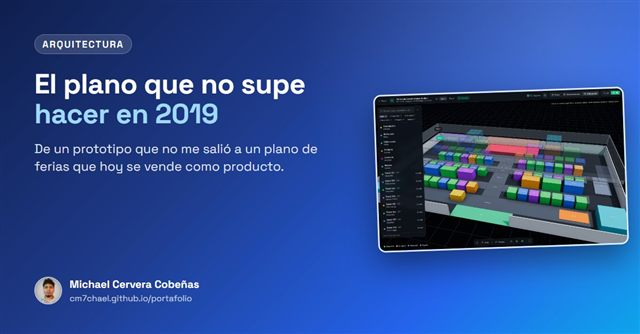
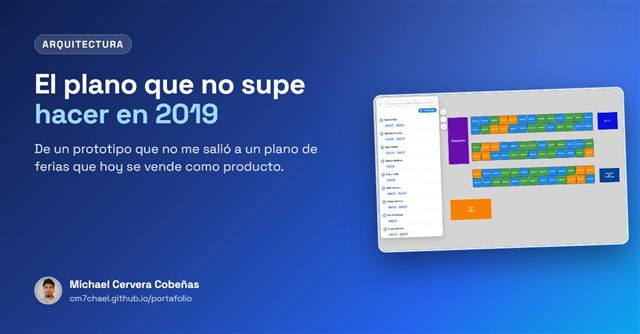
Artículo del plano: capturas del sistema actual

Changed region(s): [[0.5625, 0.2395, 1.0, 0.7485]]

diff --git a/blog/index.html b/blog/index.html
@@ -50,7 +50,7 @@
     </header>
     <!-- La lista y los botones de categoría los deja escritos generar-blog.js; blog.js los activa. -->
     <div class="container" id="blog-lista" data-slugs="plano-de-ferias-que-no-supe-hacer-2019,decisiones-documentadas-adr-equipo,integrar-sap-business-one-gateway-tablas-espejo,design-system-angular-17-aplicaciones,cicd-sin-llaves-workload-identity-federation-cloud-run,microfrontends-angular-native-federation-lecciones-produccion">
-      <section class="blog-grupo" id="cat-arquitectura"><div class="blog-grupo__cabecera"><h2>Arquitectura</h2><span>4 artículos</span></div><div class="row"><div class="col-12 col-md-6 col-lg-4 mb-4"><a class="blog-card" href="https://cm7chael.github.io/portafolio/blog/plano-de-ferias-que-no-supe-hacer-2019.html"><img class="blog-card__img" src="https://cm7chael.github.io/portafolio/assets/image/blog/miniaturas/plano-ferias.jpg" alt="" width="1200" height="627" fetchpriority="high"><div class="blog-card__cuerpo"><p class="blog-card__meta">Arquitectura · 20 de octubre de 2026 · 4 min</p><h3>El plano de ferias que no supe hacer en 2019</h3><p class="blog-card__resumen">En 2019 intenté un plano web para ferias y no me salió. En 2025 lo retomamos y hoy se vende como producto. Qué puso la IA y qué tuvimos que decidir nosotros.</p><div class="stack"><span class="stack__item">Canvas</span><span class="stack__item">Konva</span><span class="stack__item">IA</span></div></div></a></div><div class="col-12 col-md-6 col-lg-4 mb-4"><a class="blog-card" href="https://cm7chael.github.io/portafolio/blog/integrar-sap-business-one-gateway-tablas-espejo.html"><img class="blog-card__img" src="https://cm7chael.github.io/portafolio/assets/image/blog/miniaturas/sap-una-sola-puerta.jpg" alt="" width="1200" height="627" loading="lazy"><div class="blog-card__cuerpo"><p class="blog-card__meta">Arquitectura · 10 de octubre de 2026 · 6 min</p><h3>SAP Business One con una sola puerta: cómo lo integré en 17 aplicaciones sin que ninguna le hable directo</h3><p class="blog-card__resumen">Cómo 17 aplicaciones usan SAP Business One sin conectarse a él: un gateway único, tablas espejo para los maestros y lo aprendido con el Service Layer.</p><div class="stack"><span class="stack__item">SAP Business One</span><span class="stack__item">Service Layer</span><span class="stack__item">HANA</span></div></div></a></div><div class="col-12 col-md-6 col-lg-4 mb-4"><a class="blog-card" href="https://cm7chael.github.io/portafolio/blog/design-system-angular-17-aplicaciones.html"><img class="blog-card__img" src="https://cm7chael.github.io/portafolio/assets/image/blog/miniaturas/design-system.jpg" alt="" width="1200" height="627" loading="lazy"><div class="blog-card__cuerpo"><p class="blog-card__meta">Arquitectura · 10 de octubre de 2026 · 6 min</p><h3>Un Design System para 17 aplicaciones: cómo lo armé en Angular y lo que me tocó corregir</h3><p class="blog-card__resumen">Cómo armé un Design System en Angular con Nx que usan 17 aplicaciones: librerías, tokens, Material encapsulado y lo que me tocó corregir.</p><div class="stack"><span class="stack__item">Design System</span><span class="stack__item">Angular</span><span class="stack__item">Nx</span></div></div></a></div><div class="col-12 col-md-6 col-lg-4 mb-4"><a class="blog-card" href="https://cm7chael.github.io/portafolio/blog/microfrontends-angular-native-federation-lecciones-produccion.html"><img class="blog-card__img" src="https://cm7chael.github.io/portafolio/assets/image/blog/miniaturas/microfrontends.jpg" alt="" width="1200" height="627" loading="lazy"><div class="blog-card__cuerpo"><p class="blog-card__meta">Arquitectura · 10 de octubre de 2026 · 6 min</p><h3>Microfrontends con Angular y Native Federation: lo que aprendí llevando más de 15 módulos a producción</h3><p class="blog-card__resumen">Lecciones reales de llevar más de 15 microfrontends a producción con Angular y Native Federation: rutas, CORS, caché, ambientes y Design System.</p><div class="stack"><span class="stack__item">microfrontends</span><span class="stack__item">Angular</span><span class="stack__item">Native Federation</span></div></div></a></div></div></section><section class="blog-grupo" id="cat-equipos-y-liderazgo"><div class="blog-grupo__cabecera"><h2>Equipos y liderazgo</h2><span>1 artículo</span></div><div class="row"><div class="col-12 col-md-6 col-lg-4 mb-4"><a class="blog-card" href="https://cm7chael.github.io/portafolio/blog/decisiones-documentadas-adr-equipo.html"><img class="blog-card__img" src="https://cm7chael.github.io/portafolio/assets/image/blog/miniaturas/decisiones-documentadas.jpg" alt="" width="1200" height="627" loading="lazy"><div class="blog-card__cuerpo"><p class="blog-card__meta">Equipos y liderazgo · 16 de octubre de 2026 · 5 min</p><h3>Decisiones documentadas: cómo uso los ADR para que el equipo avance con su propio criterio</h3><p class="blog-card__resumen">Qué es un ADR, la plantilla que uso, cuándo escribir uno y qué cambió en el equipo después de documentar 14 decisiones técnicas en dos meses.</p><div class="stack"><span class="stack__item">ADR</span><span class="stack__item">Arquitectura</span><span class="stack__item">Documentación</span></div></div></a></div></div></section><section class="blog-grupo" id="cat-cloud-y-devops"><div class="blog-grupo__cabecera"><h2>Cloud y DevOps</h2><span>1 artículo</span></div><div class="row"><div class="col-12 col-md-6 col-lg-4 mb-4"><a class="blog-card" href="https://cm7chael.github.io/portafolio/blog/cicd-sin-llaves-workload-identity-federation-cloud-run.html"><img class="blog-card__img" src="https://cm7chael.github.io/portafolio/assets/image/blog/miniaturas/cicd-sin-llaves.jpg" alt="" width="1200" height="627" loading="lazy"><div class="blog-card__cuerpo"><p class="blog-card__meta">Cloud y DevOps · 10 de octubre de 2026 · 6 min</p><h3>CI/CD sin llaves: cómo despliego más de 20 repositorios a Cloud Run con Workload Identity Federation</h3><p class="blog-card__resumen">Cómo desplegar a Cloud Run desde GitHub Actions sin llaves de servicio, con Workload Identity Federation: paso a paso y lo aprendido con más de 20 repos.</p><div class="stack"><span class="stack__item">CI/CD</span><span class="stack__item">GitHub Actions</span><span class="stack__item">Google Cloud</span></div></div></a></div></div></section>
+      <section class="blog-grupo" id="cat-arquitectura"><div class="blog-grupo__cabecera"><h2>Arquitectura</h2><span>4 artículos</span></div><div class="row"><div class="col-12 col-md-6 col-lg-4 mb-4"><a class="blog-card" href="https://cm7chael.github.io/portafolio/blog/plano-de-ferias-que-no-supe-hacer-2019.html"><img class="blog-card__img" src="https://cm7chael.github.io/portafolio/assets/image/blog/miniaturas/plano-ferias.jpg" alt="" width="1200" height="627" fetchpriority="high"><div class="blog-card__cuerpo"><p class="blog-card__meta">Arquitectura · 20 de octubre de 2026 · 5 min</p><h3>El plano de ferias que no supe hacer en 2019</h3><p class="blog-card__resumen">En 2019 intenté un plano web para ferias y no me salió. En 2025 lo retomamos y hoy se vende como producto. Qué puso la IA y qué tuvimos que decidir nosotros.</p><div class="stack"><span class="stack__item">Canvas</span><span class="stack__item">Konva</span><span class="stack__item">IA</span></div></div></a></div><div class="col-12 col-md-6 col-lg-4 mb-4"><a class="blog-card" href="https://cm7chael.github.io/portafolio/blog/integrar-sap-business-one-gateway-tablas-espejo.html"><img class="blog-card__img" src="https://cm7chael.github.io/portafolio/assets/image/blog/miniaturas/sap-una-sola-puerta.jpg" alt="" width="1200" height="627" loading="lazy"><div class="blog-card__cuerpo"><p class="blog-card__meta">Arquitectura · 10 de octubre de 2026 · 6 min</p><h3>SAP Business One con una sola puerta: cómo lo integré en 17 aplicaciones sin que ninguna le hable directo</h3><p class="blog-card__resumen">Cómo 17 aplicaciones usan SAP Business One sin conectarse a él: un gateway único, tablas espejo para los maestros y lo aprendido con el Service Layer.</p><div class="stack"><span class="stack__item">SAP Business One</span><span class="stack__item">Service Layer</span><span class="stack__item">HANA</span></div></div></a></div><div class="col-12 col-md-6 col-lg-4 mb-4"><a class="blog-card" href="https://cm7chael.github.io/portafolio/blog/design-system-angular-17-aplicaciones.html"><img class="blog-card__img" src="https://cm7chael.github.io/portafolio/assets/image/blog/miniaturas/design-system.jpg" alt="" width="1200" height="627" loading="lazy"><div class="blog-card__cuerpo"><p class="blog-card__meta">Arquitectura · 10 de octubre de 2026 · 6 min</p><h3>Un Design System para 17 aplicaciones: cómo lo armé en Angular y lo que me tocó corregir</h3><p class="blog-card__resumen">Cómo armé un Design System en Angular con Nx que usan 17 aplicaciones: librerías, tokens, Material encapsulado y lo que me tocó corregir.</p><div class="stack"><span class="stack__item">Design System</span><span class="stack__item">Angular</span><span class="stack__item">Nx</span></div></div></a></div><div class="col-12 col-md-6 col-lg-4 mb-4"><a class="blog-card" href="https://cm7chael.github.io/portafolio/blog/microfrontends-angular-native-federation-lecciones-produccion.html"><img class="blog-card__img" src="https://cm7chael.github.io/portafolio/assets/image/blog/miniaturas/microfrontends.jpg" alt="" width="1200" height="627" loading="lazy"><div class="blog-card__cuerpo"><p class="blog-card__meta">Arquitectura · 10 de octubre de 2026 · 6 min</p><h3>Microfrontends con Angular y Native Federation: lo que aprendí llevando más de 15 módulos a producción</h3><p class="blog-card__resumen">Lecciones reales de llevar más de 15 microfrontends a producción con Angular y Native Federation: rutas, CORS, caché, ambientes y Design System.</p><div class="stack"><span class="stack__item">microfrontends</span><span class="stack__item">Angular</span><span class="stack__item">Native Federation</span></div></div></a></div></div></section><section class="blog-grupo" id="cat-equipos-y-liderazgo"><div class="blog-grupo__cabecera"><h2>Equipos y liderazgo</h2><span>1 artículo</span></div><div class="row"><div class="col-12 col-md-6 col-lg-4 mb-4"><a class="blog-card" href="https://cm7chael.github.io/portafolio/blog/decisiones-documentadas-adr-equipo.html"><img class="blog-card__img" src="https://cm7chael.github.io/portafolio/assets/image/blog/miniaturas/decisiones-documentadas.jpg" alt="" width="1200" height="627" loading="lazy"><div class="blog-card__cuerpo"><p class="blog-card__meta">Equipos y liderazgo · 16 de octubre de 2026 · 5 min</p><h3>Decisiones documentadas: cómo uso los ADR para que el equipo avance con su propio criterio</h3><p class="blog-card__resumen">Qué es un ADR, la plantilla que uso, cuándo escribir uno y qué cambió en el equipo después de documentar 14 decisiones técnicas en dos meses.</p><div class="stack"><span class="stack__item">ADR</span><span class="stack__item">Arquitectura</span><span class="stack__item">Documentación</span></div></div></a></div></div></section><section class="blog-grupo" id="cat-cloud-y-devops"><div class="blog-grupo__cabecera"><h2>Cloud y DevOps</h2><span>1 artículo</span></div><div class="row"><div class="col-12 col-md-6 col-lg-4 mb-4"><a class="blog-card" href="https://cm7chael.github.io/portafolio/blog/cicd-sin-llaves-workload-identity-federation-cloud-run.html"><img class="blog-card__img" src="https://cm7chael.github.io/portafolio/assets/image/blog/miniaturas/cicd-sin-llaves.jpg" alt="" width="1200" height="627" loading="lazy"><div class="blog-card__cuerpo"><p class="blog-card__meta">Cloud y DevOps · 10 de octubre de 2026 · 6 min</p><h3>CI/CD sin llaves: cómo despliego más de 20 repositorios a Cloud Run con Workload Identity Federation</h3><p class="blog-card__resumen">Cómo desplegar a Cloud Run desde GitHub Actions sin llaves de servicio, con Workload Identity Federation: paso a paso y lo aprendido con más de 20 repos.</p><div class="stack"><span class="stack__item">CI/CD</span><span class="stack__item">GitHub Actions</span><span class="stack__item">Google Cloud</span></div></div></a></div></div></section>
     </div>
     <!-- /blog-lista -->
   </main>

diff --git a/blog/plano-de-ferias-que-no-supe-hacer-2019.html b/blog/plano-de-ferias-que-no-supe-hacer-2019.html
@@ -21,7 +21,7 @@
   <meta property="og:image" content="https://cm7chael.github.io/portafolio/assets/image/blog/plano-ferias.jpg">
   <meta property="og:url" content="https://cm7chael.github.io/portafolio/blog/plano-de-ferias-que-no-supe-hacer-2019.html">
   <meta name="twitter:card" content="summary_large_image">
-  <script type="application/ld+json">{"@context":"https://schema.org","@type":"BlogPosting","headline":"El plano de ferias que no supe hacer en 2019","description":"En 2019 intenté un plano web para ferias y no me salió. En 2025 lo retomamos y hoy se vende como producto. Qué puso la IA y qué tuvimos que decidir nosotros.","image":"https://cm7chael.github.io/portafolio/assets/image/blog/plano-ferias.jpg","datePublished":"2026-10-20T20:22:10.314Z","dateModified":"2026-10-20T20:40:00.379Z","author":{"@type":"Person","name":"Michael Cervera Cobeñas","url":"https://cm7chael.github.io/portafolio/"},"mainEntityOfPage":"https://cm7chael.github.io/portafolio/blog/plano-de-ferias-que-no-supe-hacer-2019.html","keywords":"Canvas, Konva, IA, Producto, Ferias"}</script>
+  <script type="application/ld+json">{"@context":"https://schema.org","@type":"BlogPosting","headline":"El plano de ferias que no supe hacer en 2019","description":"En 2019 intenté un plano web para ferias y no me salió. En 2025 lo retomamos y hoy se vende como producto. Qué puso la IA y qué tuvimos que decidir nosotros.","image":"https://cm7chael.github.io/portafolio/assets/image/blog/plano-ferias.jpg","datePublished":"2026-10-20T20:22:10.314Z","dateModified":"2026-10-20T21:20:32.160Z","author":{"@type":"Person","name":"Michael Cervera Cobeñas","url":"https://cm7chael.github.io/portafolio/"},"mainEntityOfPage":"https://cm7chael.github.io/portafolio/blog/plano-de-ferias-que-no-supe-hacer-2019.html","keywords":"Canvas, Konva, IA, Producto, Ferias"}</script>
 </head>
 <body>
   <nav class="navbar navbar-expand-lg navbar-dark nav-glass fixed-top">
@@ -46,7 +46,7 @@
     <article class="articulo" id="articulo" data-slug="plano-de-ferias-que-no-supe-hacer-2019">
       <p class="articulo__ruta"><a href="./">&larr; Blog</a> <a class="blog-chip blog-chip--chico" id="articulo-categoria" href="./?c=arquitectura">Arquitectura</a></p>
       <h1 id="articulo-titulo">El plano de ferias que no supe hacer en 2019</h1>
-      <p class="post-card__fecha" id="articulo-fecha">20 de octubre de 2026 · 4 min de lectura</p>
+      <p class="post-card__fecha" id="articulo-fecha">20 de octubre de 2026 · 5 min de lectura</p>
       <img class="articulo__portada" id="articulo-portada" alt="" width="1200" height="627" src="https://cm7chael.github.io/portafolio/assets/image/blog/plano-ferias.jpg">
       <!-- Generado por generar-blog.js desde CentralWeb. No editar: se sobrescribe. -->
       <div class="articulo__cuerpo" id="articulo-cuerpo">
@@ -83,13 +83,36 @@
 
 <p>El recinto mide lo que mide y un stand de 3 por 3 es de 3 por 3. Si el plano guarda píxeles, depende de la pantalla en la que se dibujó. Si guarda metros, se puede mostrar en un celular, calcular distancias y decirle al expositor, cuando reserva, cuántos metros cuadrados está comprando.</p>
 
+<figure>
+  <img src="https://cm7chael.github.io/portafolio/assets/image/blog/plano-zappyn-ficha.jpg" alt="Ficha de un stand en espera con su tamaño de 3 por 3 metros y 9 metros cuadrados" width="1600" height="1000" loading="lazy">
+  <figcaption>La ficha de un stand: su estado y su tamaño real, 3 × 3 m, 9 m². Plano de ejemplo con datos inventados.</figcaption>
+</figure>
+
+
 <h3>Cada uno ve lo que necesita</h3>
 
 <p>El organizador tiene el editor: dibuja muros, pasillos, zonas y stands, deshace y rehace, y al guardar solo viajan las figuras que cambiaron. El expositor entra a reservar y solo puede elegir un stand libre; si alguien lo tomó antes, el sistema se lo dice y le pide elegir otro. El visitante ve una versión de solo lectura, con un buscador de stands y expositores.</p>
 
+<figure>
+  <img src="https://cm7chael.github.io/portafolio/assets/image/blog/plano-zappyn-editor.jpg" alt="Editor del plano con la cuadrícula en metros, herramientas de dibujo y stands de colores según su estado" width="1600" height="1000" loading="lazy">
+  <figcaption>El editor del organizador: la cuadrícula en metros, las herramientas de dibujo y cada stand con el color de su estado.</figcaption>
+</figure>
+
+<figure>
+  <img src="https://cm7chael.github.io/portafolio/assets/image/blog/plano-zappyn-visitante.jpg" alt="Vista del visitante con el buscador de expositores a la izquierda y el plano de la feria" width="1600" height="1000" loading="lazy">
+  <figcaption>Lo que ve el visitante: el plano de solo lectura y, a la izquierda, los expositores con sus stands.</figcaption>
+</figure>
+
+
 <h3>"Cómo llegar"</h3>
 
 <p>El visitante elige un stand y el plano le traza el camino. Por debajo, el plano se convierte en una cuadrícula donde los stands y los muros son obstáculos, y el algoritmo A* busca la ruta más corta entre los pasillos. La ruta se dibuja encima del plano como una línea.</p>
+
+<figure>
+  <img src="https://cm7chael.github.io/portafolio/assets/image/blog/plano-zappyn-ruta.jpg" alt="Ruta animada que va desde el módulo de atención por un pasillo hasta un stand" width="1600" height="1000" loading="lazy">
+  <figcaption>"Cómo llegar": la ruta va por el pasillo, esquivando los stands, desde el módulo de atención hasta el stand elegido.</figcaption>
+</figure>
+
 
 <p>Y acá la IA volvió a aparecer, pero del otro lado: el plano tiene un asistente al que el visitante le puede escribir "¿cómo llego al stand 7?". El asistente responde y, además, le pide al plano que dibuje esa ruta. La pregunta se hace en palabras y la respuesta llega en el mapa.</p>
 
